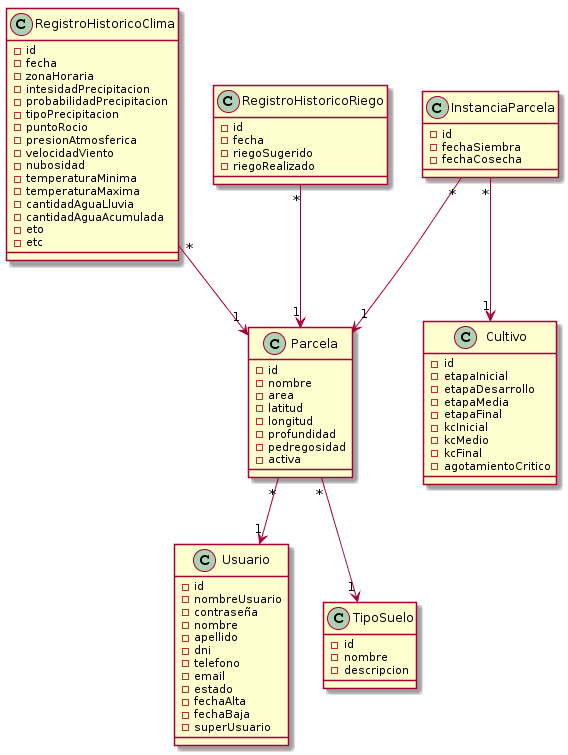
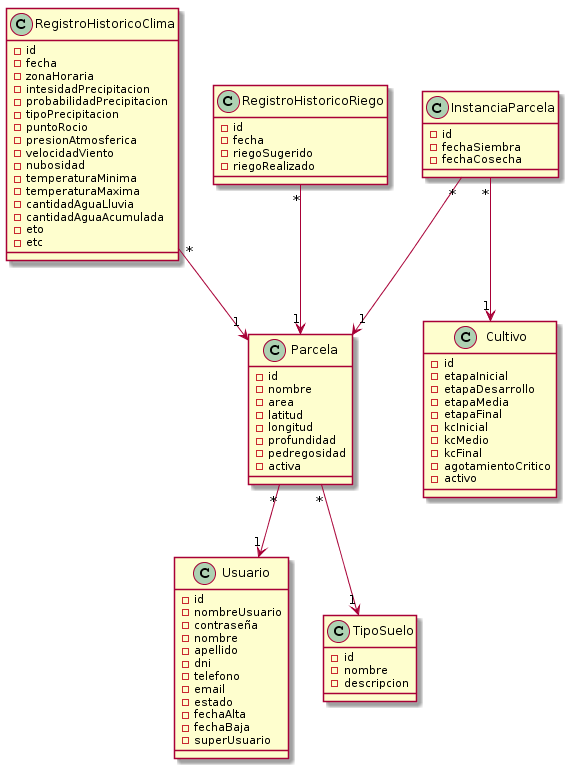
Mod. de dominio, modificado, nuevo atributo en Cultivo

diff --git a/app/public/module.js b/app/public/module.js
@@ -8,17 +8,17 @@ app.config(['$routeProvider', function(routeprovider) {
 
 	/* Parcel */
 	.when('/parcel',{
-		templateUrl:'partials/parcel/parcel-list.html',
+		templateUrl:'partials/parcel-list.html',
 		controller: 'ParcelsCtrl'
 	})
 
 	.when('/parcel/:action',{
-		templateUrl:'partials/parcel/parcel-form.html',
+		templateUrl:'partials/parcel-form.html',
 		controller: 'ParcelCtrl'
 	})
 
 	.when('/parcel/:action/:id',{
-		templateUrl:'partials/parcel/parcel-form.html',
+		templateUrl:'partials/parcel-form.html',
 		controller: 'ParcelCtrl'
 	})
 

diff --git a/app/public/controllers/ParcelCtrl.js b/app/public/controllers/ParcelCtrl.js
@@ -41,7 +41,7 @@ app.controller(
           icon: icondata
         });
 
-        console.log($scope.data);
+        // console.log($scope.data);
       });
     }
 

diff --git a/app/src/climate/ClimateDataExtractor.java b/app/src/climate/ClimateDataExtractor.java
@@ -26,12 +26,12 @@ import stateless.ParcelServiceBean;
 import stateless.ClimateLogServiceBean;
 import stateless.SolarRadiationServiceBean;
 import stateless.MaximumInsolationServiceBean;
-import stateless.ParcelInstanceServiceBean;
+import stateless.InstanciaParcelaService;
 import stateless.CultivoService;
 
 import model.ClimateLog;
 import model.Parcel;
-import model.ParcelInstance;
+import model.InstanciaParcela;
 
 import et.Eto;
 
@@ -50,8 +50,8 @@ public class ClimateDataExtractor {
   // inject a reference to the MaximumInsolationServiceBean
   @EJB MaximumInsolationServiceBean insolationService;
 
-  // inject a reference to the ParcelInstanceServiceBean
-  @EJB ParcelInstanceServiceBean parcelInstanceService;
+  // inject a reference to the InstanciaParcelaService
+  @EJB InstanciaParcelaService parcelInstanceService;
 
   // inject a reference to the CultivoService
   @EJB CultivoService cultivoService;
@@ -63,12 +63,13 @@ public class ClimateDataExtractor {
    * horas a partir de las 00:00 debido a que quizas, en
    * alguna hora del dia, la API climatica (Dark Sky) puede
    * que no este disponible al momento de que el sistema le
-   * pida los datos climaticos de una parcela
+   * solicite los datos climaticos para cada parcela
    *
    * @param second="*"
    * @param minute="*"
    * @param hour="0/2" cada dos horas a partir de las doce de la
    * noche
+   * @param persistent=false
    */
   // @Schedule(second="*", minute="*", hour="0/2", persistent=false)
   // @Schedule(second="*/5", minute="*", hour="*", persistent=false)
@@ -86,14 +87,23 @@ public class ClimateDataExtractor {
 
     double latitude = 0.0;
     double longitude = 0.0;
-    long unixTime = 0;
     ClimateLog climateLog = null;
-    Calendar currenDate = Calendar.getInstance();
+
+    Calendar currentDate = Calendar.getInstance();
+
+    /*
+     * Convierte el tiempo en milisegundos a segundos
+     * porque el formato UNIX TIMESTAMP utiliza el tiempo
+     * en segundos y se realiza esta conversion porque la API del
+     * clima llamada Dark Sky recibe fechas con el formato mencionado
+     */
+    long unixTime = (currentDate.getInstance().getTimeInMillis() / 1000);
+
     double eto = 0.0;
     double etc = 0.0;
     double extraterrestrialSolarRadiation = 0.0;
     double maximumInsolation = 0.0;
-    ParcelInstance parcelInstance = null;
+    InstanciaParcela parcelInstance = null;
 
     for (Parcel currentParcel : parcels) {
 
@@ -102,17 +112,9 @@ public class ClimateDataExtractor {
        * en la fecha actual para la parcela dada, entonces
        * se tiene que crear uno
        */
-      if (!climateLogServiceBean.exist(currenDate, currentParcel)) {
+      if (!climateLogServiceBean.exist(currentDate, currentParcel)) {
         latitude = currentParcel.getLatitude();
         longitude = currentParcel.getLongitude();
-
-        /*
-         * Convierte el tiempo en milisegundos a segundos
-         * porque el formato UNIX TIMESTAMP utiliza el tiempo
-         * en segundos y se realiza esta conversion porque la API del
-         * clima llamada Dark Sky recibe fechas con el formato mencionado
-         */
-        unixTime = (currenDate.getInstance().getTimeInMillis() / 1000);
 
         /*
          * Recupera un registro del clima haciendo uso de las
@@ -122,8 +124,8 @@ public class ClimateDataExtractor {
         climateLog = climateLogService.getClimateLog(latitude, longitude, unixTime);
         climateLog.setParcel(currentParcel);
 
-        extraterrestrialSolarRadiation = solarService.getRadiation(currenDate.get(Calendar.MONTH), latitude);
-        maximumInsolation = insolationService.getInsolation(currenDate.get(Calendar.MONTH), latitude);
+        extraterrestrialSolarRadiation = solarService.getRadiation(currentDate.get(Calendar.MONTH), latitude);
+        maximumInsolation = insolationService.getInsolation(currentDate.get(Calendar.MONTH), latitude);
 
         /*
          * Con los datos climaticos recuperados se calcula la
@@ -136,20 +138,32 @@ public class ClimateDataExtractor {
         parcelInstance = parcelInstanceService.findCurrentParcelInstance(currentParcel);
 
         /*
-         * Si existe (!= null) un registro historico actual de la
-         * parcela dada se obtiene su cultivo y su fecha de
-         * siembra para obtener el kc del cultivo, y todo
-         * esto es para calcular la etc del cultivo sembrado
+         * Si existe un registro historico de la parcela dada
+         * que tiene fecha de siembra y que no tiene fecha de cosecha
+         * se obtiene su cultivo y su fecha de siembra para obtener
+         * el kc del cultivo, y todo esto es para calcular la etc
+         * del cultivo sembrado
          *
-         * En pocas palabras, si hay (!= null) un registro historico
+         * El registro historico actual de una parcela es aquel
+         * registro que muestra que la parcela, a la que hace
+         * referencia, tiene un cultivo sembrado, tiene una
+         * fecha de siembra y no tiene una fecha de cosecha
+         *
+         * Si hay (!= null) un registro historico
          * actual de la parcela dada es porque la misma
-         * actualmente tiene un cultivo y por ende, se
-         * calcula su ETc
+         * actualmente tiene un cultivo sembrado y
+         * sin cosechar, por ende, se calcula la ETc
+         * del cultivo que tiene
          *
-         * En caso contrario la ETc sera cero
+         * En el caso en el que la parcela no tenga un
+         * registro historico actual, la ETc sera cero
+         * porque este registro es el que tiene el
+         * cultivo que esta sembrado actualmente y si
+         * no existe tampoco existe un cultivo para
+         * el cual calcular la ETc
          */
         if (parcelInstance != null) {
-          etc = cultivoService.getKc(parcelInstance.getCrop(), parcelInstance.getSeedDate()) * eto;
+          etc = cultivoService.getKc(parcelInstance.getCultivo(), parcelInstance.getFechaSiembra()) * eto;
         } else {
           etc = 0.0;
         }
